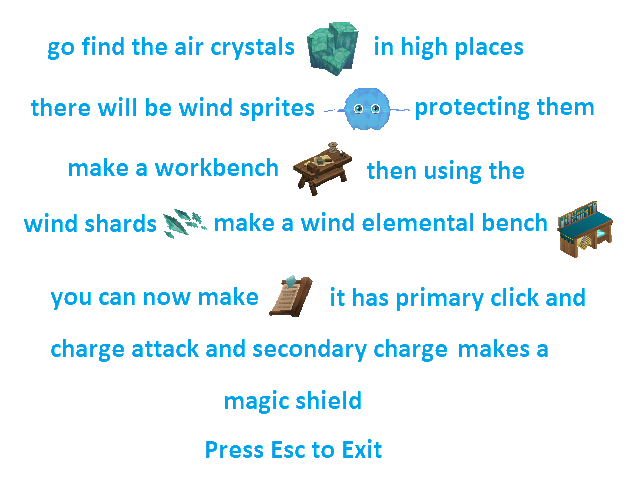
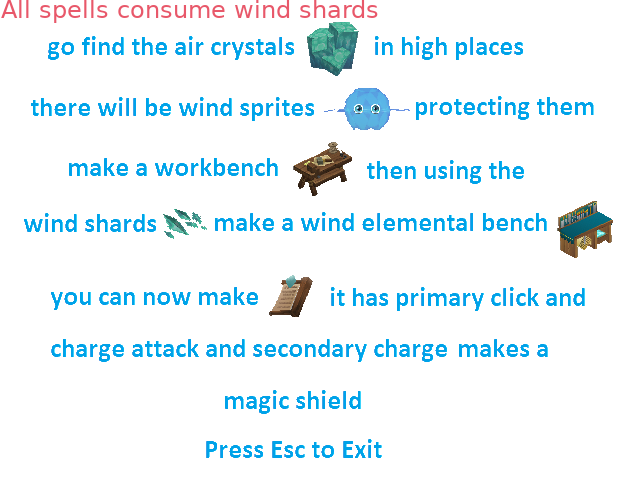
Last minute changes after testing

Changed region(s): [[0.0, 0.0, 0.5938, 0.0625]]

diff --git a/README.md b/README.md
@@ -11,7 +11,7 @@ Adds the following blocks for all Elements
 	
 	1) Crystals (4 types)
 	
-	2) Shards
+	2) Shards (all spells consume shards so I changed the stack size to 999)
 	
 	3) Gems
 	
